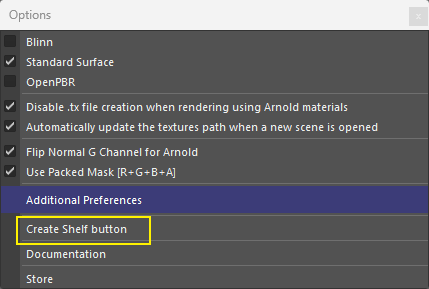
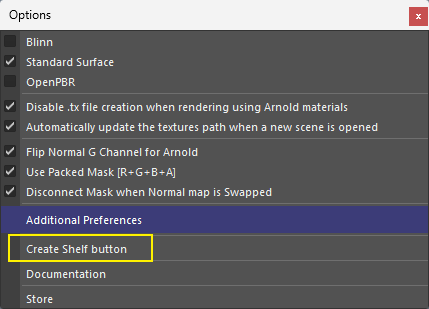
updated docs
updated docs

diff --git a/docs/Batch Material Creation/Breakdown.md b/docs/Batch Material Creation/Breakdown.md
@@ -224,6 +224,13 @@ If a texture map was missing when you first created a material—or if you updat
         <figcaption><span style="color:rgba(22, 165, 110, 1);">Fixing Colour Space</span></figcaption>
     </figure>
 
+- ++alt++ + Click: Connects/Disconnect the Mask channel on selected materials. 
+
+    <figure style="text-align: center;">
+        <img src="../images/Batch_Material_Toggle_Mask_1.gif" class="img-medium" alt="Batch_Material_Creation_1">
+        <figcaption><span style="color:rgba(22, 165, 110, 1);">Toggling Mask On/Off</span></figcaption>
+    </figure>
+
 
 ## **<span style="color:rgb(71, 187, 119);">Swap Textures</span>**
 
@@ -297,16 +304,20 @@ The Swap Texture feature allows you to instantly swap texture maps *(such as Alb
     <figcaption><span style="color:rgba(22, 165, 110, 1);">.Enabling/Disabling Mask Support</span></figcaption>
 </figure>
 
+### 6. Disconnect Mask when normal map is swapped
+- When checked, swapping to see your Nomral in the colour channel, disconnects your Mask input. 
+
+    * This is done because having the Mask over the Normal map gets in the way of evaluating your normal map in the viewport. 
 
 
-### 6. Additional Preferences
+### 7. Additional Preferences
 - Additional Preferences [*(more info here)*](#Additional_Preferences).
     * Opens up a dedicated window for deeper customization.
 
     * Set up smart naming rules (like automatically turning T_ texture names into MI_ material names), pick which texture types get refreshed, and map out custom RGBA channels.
 
 
-### 7. Shelf /Documentation /Store
+### 8. Shelf /Documentation /Store
 - Create Shelf Button.
 - Documentation.
     * Opens your browser and takes you straight to the online user guide whenever you need a quick hand.
